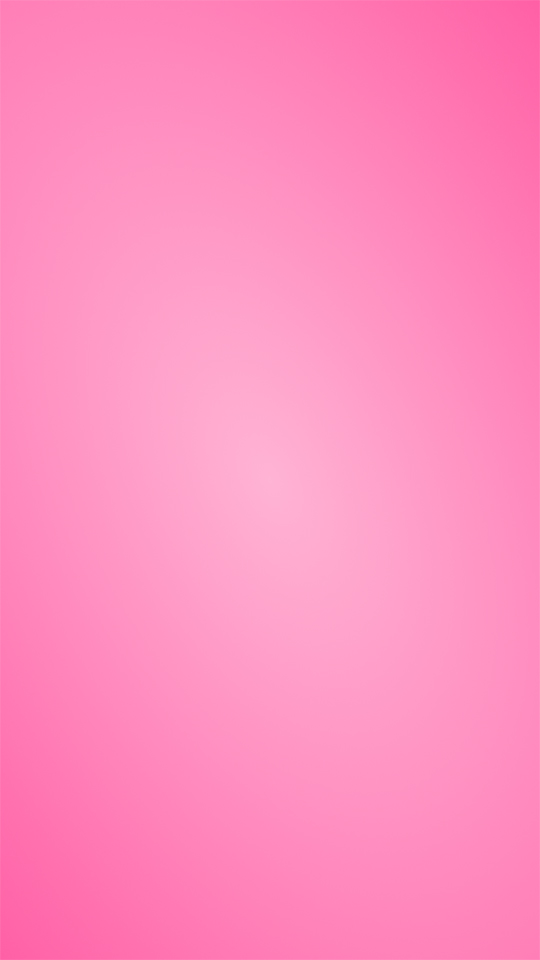
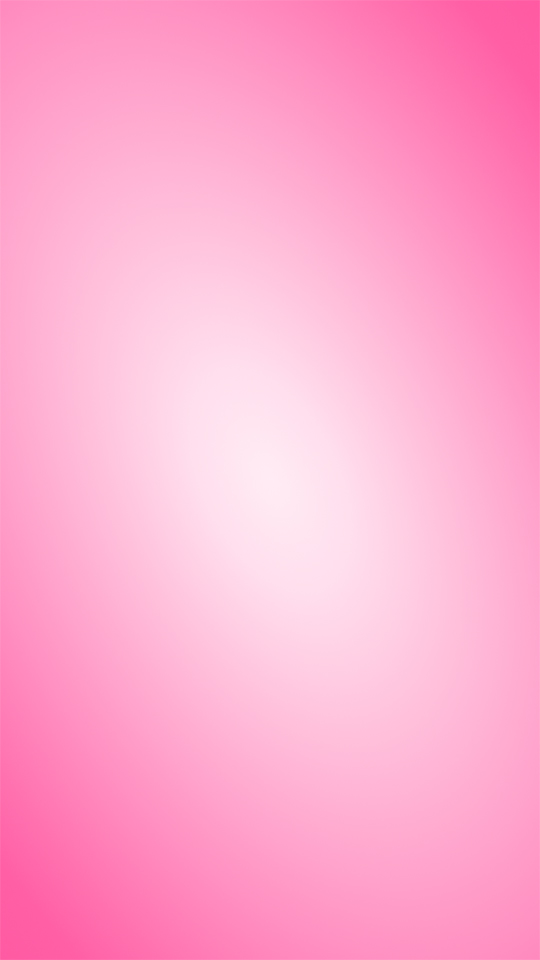
intro

diff --git a/src/PreloadState.js b/src/PreloadState.js
@@ -16,8 +16,21 @@ PreloadState.prototype = {
         this.loadBack = this.game.add.image(GAME_WIDTH/2,GAME_HEIGHT/2,"back_loading");
         this.loadBack.anchor.set(0.5,0.5);
         this.loadBack.scale.set(GAME_WIDTH/540,GAME_HEIGHT/960);
-        this.loadText = this.game.add.text(GAME_WIDTH/2,GAME_HEIGHT*0.7,"0%", { font: "100px", fill: "#ffffff", align: "center", boundsAlignH: "center", boundsAlignV: "middle" });
-        this.loadText.anchor.set(0.5,0.5);
+        /*this.loadText = this.game.add.text(GAME_WIDTH/2,GAME_HEIGHT*0.7,"0%", { font: "100px", fill: "#ffffff", align: "center", boundsAlignH: "center", boundsAlignV: "middle" });
+        this.loadText.anchor.set(0.5,0.5);*/
+
+        this.startBar = this.game.add.image(GAME_WIDTH/2,GAME_HEIGHT/2+700,"start_bar");
+        this.startBar.anchor.set(0.5,0.5);
+
+        this.whiteBar = this.game.add.image(GAME_WIDTH/2-600/2,GAME_HEIGHT/2+700,"white");
+        this.whiteBar.anchor.set(0,0.5);
+        this.whiteBar.scale.set(600/100*0,0.2);
+
+        this.heartClosed = this.game.add.image(GAME_WIDTH/2+1000,GAME_HEIGHT/2-50,"heart_closed");
+        this.heartClosed.anchor.set(0.5,0.5);
+
+        this.key = this.game.add.image(GAME_WIDTH/2-1000,GAME_HEIGHT/2,"key");
+        this.key.anchor.set(0.5,0.5);
 
 
         this.game.scale.setUserScale(1, 1);
@@ -82,6 +95,7 @@ PreloadState.prototype = {
         //game.load.image('button_restart','assets/button_restart.png');
 
 
+        game.load.image('heart_opened', 'assets/heart_opened.png')
     }
     ,
 
@@ -90,14 +104,56 @@ PreloadState.prototype = {
         this.loadBack.x = GAME_WIDTH/2;
         this.loadBack.y = GAME_HEIGHT/2;
 
+        /*
         this.loadText.text = (progress) + '%'
-        this.loadText.x = GAME_WIDTH/2;
+        this.loadText.x = GAME_WIDTH/2;*/
 
+
+        this.key.x = GAME_WIDTH/2-400*(100-progress)/100-105;
+        this.heartClosed.x = GAME_WIDTH/2+400*(100-progress)/100;
+
+        this.whiteBar.scale.set(600/100*progress/100,0.2);
 
 
     },
 
     create : function () {
-        game.state.start('GameState');
+
+        this.heartClosed.visible = false;
+        this.key.visible = false;
+        let heartOpened = game.add.image(GAME_WIDTH/2,GAME_HEIGHT/2,"heart_opened")
+        heartOpened.anchor.set(0.45,0.60);
+
+        
+        let whiteOverlay = this.game.add.image(GAME_WIDTH/2,GAME_HEIGHT/2,"white");
+        whiteOverlay.anchor.set(0.5,0.5);
+        whiteOverlay.scale.set(2000/100,2000/100);
+        whiteOverlay.alpha = 0;
+
+
+        let tween = this.game.add.tween(heartOpened);
+        tween.to({y:0},
+                Phaser.Timer.SECOND,
+                Phaser.Easing.Back.In
+            );
+        tween.onComplete.add(function () {
+                
+                
+            }.bind(this));
+        tween.start();
+
+        
+        let tween2 = this.game.add.tween(whiteOverlay);
+        tween2.to({alpha:1},
+                Phaser.Timer.SECOND,
+                Phaser.Easing.Circular.In
+            );
+        tween2.onComplete.add(function () {
+                game.state.start('GameState');
+                
+            }.bind(this));
+        tween2.start();
+
+        //
     }
 }

diff --git a/src/GameState.js b/src/GameState.js
@@ -398,6 +398,24 @@ GameState.prototype = {
             }
         }.bind(this));
 
+
+        
+        let whiteOverlay = this.game.add.image(GAME_WIDTH/2,GAME_HEIGHT/2,"white");
+        whiteOverlay.anchor.set(0.5,0.5);
+        whiteOverlay.scale.set(2000/100,2000/100);
+        whiteOverlay.alpha = 1;
+
+        let tween = this.game.add.tween(whiteOverlay);
+        tween.to({alpha:0},
+                Phaser.Timer.SECOND/2,
+                Phaser.Easing.Circular.Out
+            );
+        tween.onComplete.add(function () {
+                whiteOverlay.visible = false;
+            }.bind(this));
+        tween.start();
+
+
     },
 
     onDown : function() {
@@ -580,6 +598,7 @@ GameState.prototype = {
     showFinal : function() 
     {
 
+        
         this.mainFinalGroup.visible = true;
         let tween = this.game.add.tween(this);
         tween.to({finalShowPos:1},

diff --git a/src/BootState.js b/src/BootState.js
@@ -8,6 +8,10 @@ BootState.prototype = {
     preload: function () {
         
         game.load.image('back_loading', 'assets/back_loading.jpg')
+        game.load.image('heart_closed', 'assets/heart_closed.png')
+        game.load.image('key', 'assets/key.png')
+        game.load.image('start_bar', 'assets/start_bar.png')
+        game.load.image('white', 'assets/white.png')
     },
     create: function () {
 
